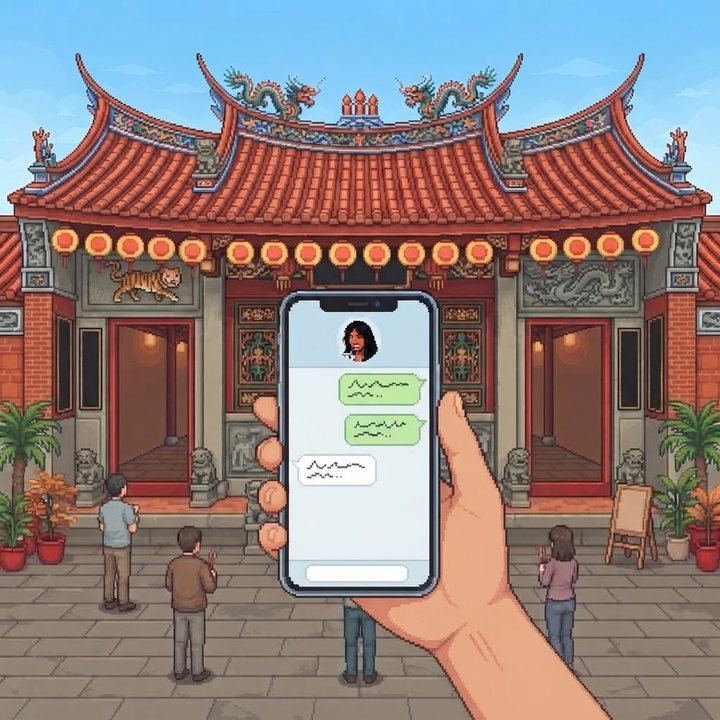
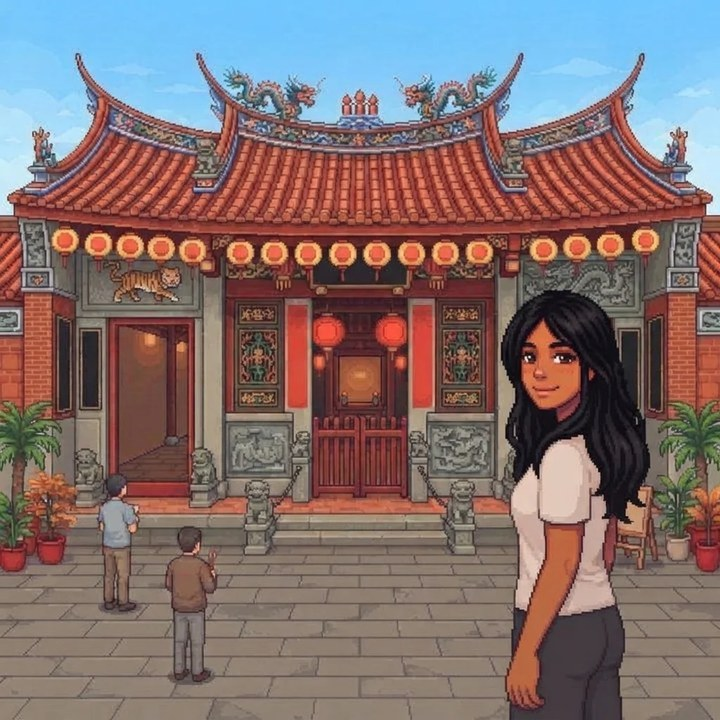
關帝廟：開頭改成廟門口跟 Ami 碰面（Ami 當面說話），換新的開頭圖，提示標題改「Ami 說的話」
Claude-Session: https://claude.ai/code/session_01VBTS7pLUuiZLT2hrjERjbU

diff --git a/games/guandi/index.html b/games/guandi/index.html
@@ -369,7 +369,7 @@ const Game = defineGame({
   },
 
   IMAGES: {
-    START: ['images/start.jpg', '📱'], GATE: ['images/gate.jpg', '⛩'], FIRE: ['images/fire.jpg', '🔥'], HEAVEN: ['images/heaven.jpg', '🙏'],
+    START: ['images/start.jpg', '🏯'], GATE: ['images/gate.jpg', '⛩'], FIRE: ['images/fire.jpg', '🔥'], HEAVEN: ['images/heaven.jpg', '🙏'],
     MAIN: ['images/main.jpg', '🏯'], THROW: ['images/throw.jpg', '🌙'], DRAW: ['images/draw.jpg', '🎋'], SLIP_NUM: ['images/cabinet.jpg', '🗄'],
     READ: ['images/read.jpg', '📜'], REGISTER: ['images/desk.jpg', '🏮'], PAY: ['images/desk.jpg', '💵'], PAY_FIX: ['images/desk.jpg', '💵'], CHANGE: ['images/desk.jpg', '💵'],
     AMULET: ['images/amulet.jpg', '🧧'], GUOLU: ['images/guolu.jpg', '🔄'], EXIT: ['images/exit.jpg', '⛩'],
@@ -427,7 +427,7 @@ const Game = defineGame({
     const ORDER = ['START', 'GATE', 'FIRE', 'HEAVEN', 'MAIN', 'THROW', 'DRAW', 'SLIP_NUM', 'READ', 'REGISTER', 'PAY', 'PAY_FIX', 'CHANGE', 'AMULET', 'GUOLU', 'EXIT', 'END', 'RESULT'];
     const at = s => ORDER.indexOf(this.st0) >= ORDER.indexOf(s);
     const t = this.task, sg = this.signs();
-    const out = [{ title: 'Ami 的 LINE 訊息', lines: this.amiLines() }];
+    const out = [{ title: 'Ami 說的話', lines: this.amiLines() }];
     const signs = ['GATE', 'FIRE', 'HEAVEN', 'MAIN', 'THROW', 'DRAW', 'SLIP_NUM', 'REGISTER', 'AMULET', 'GUOLU', 'EXIT'].filter(s => at(s)).map(s => sg[s]);
     if (signs.length) out.push({ title: '廟裡的告示牌', lines: signs });
     if (at('PAY_FIX')) out.push({ title: '廟公說的話', lines: [L(`廟公：一共是${zhNum(t.said)}元。`, `Son ${esM(t.said)} en total.`, `${enM(t.said)} in total.`)] });
@@ -504,12 +504,12 @@ const Game = defineGame({
     const board = () => Game.boardHTML();
 
     return {
-      /* ═══ Ami 的 LINE ═══ */
+      /* ═══ 廟門口跟 Ami 碰面（Ami 當面說話） ═══ */
       START: {
-        place: 'phone',
+        place: 'temple',
         html: () => Game.listHTML(),
         dialogue: () => [
-          narr('你站在關帝廟門口。手機響了一聲，是Ami傳來的LINE。', 'Estás frente al templo de Guan Di. Tu celular suena: es un LINE de Ami.', 'You stand in front of the Guan Di temple. Your phone buzzes — a LINE from Ami.'),
+          narr('你和Ami約在關帝廟門口見面。Ami先到了，她轉過身來看著你。', 'Quedaste con Ami en la entrada del templo de Guan Di. Ella ya llegó y se da la vuelta para mirarte.', 'You arranged to meet Ami at the entrance of the Guan Di temple. She is already there and turns around to look at you.'),
           ...Game.amiLines(),
           L('我：好，我們進去吧。', 'Bien, entremos.', "OK, let's go in.")
         ],
